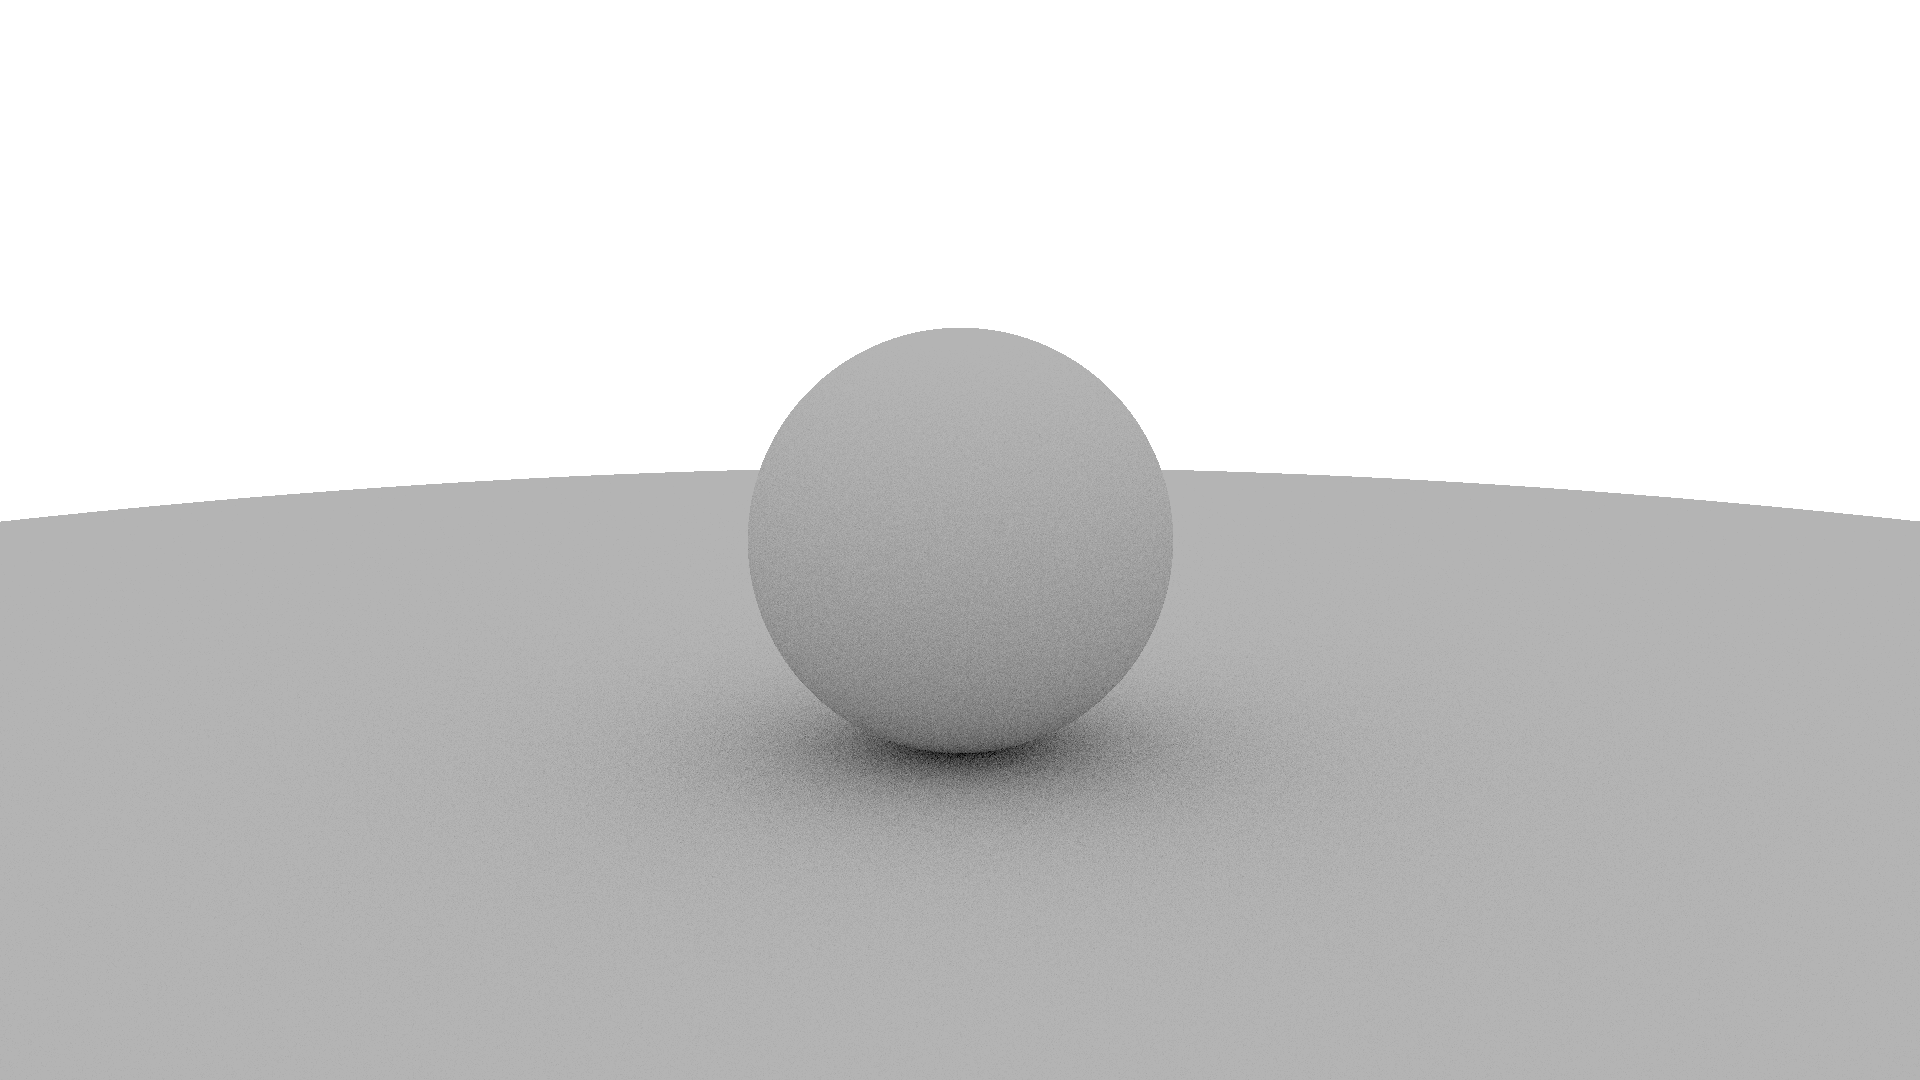
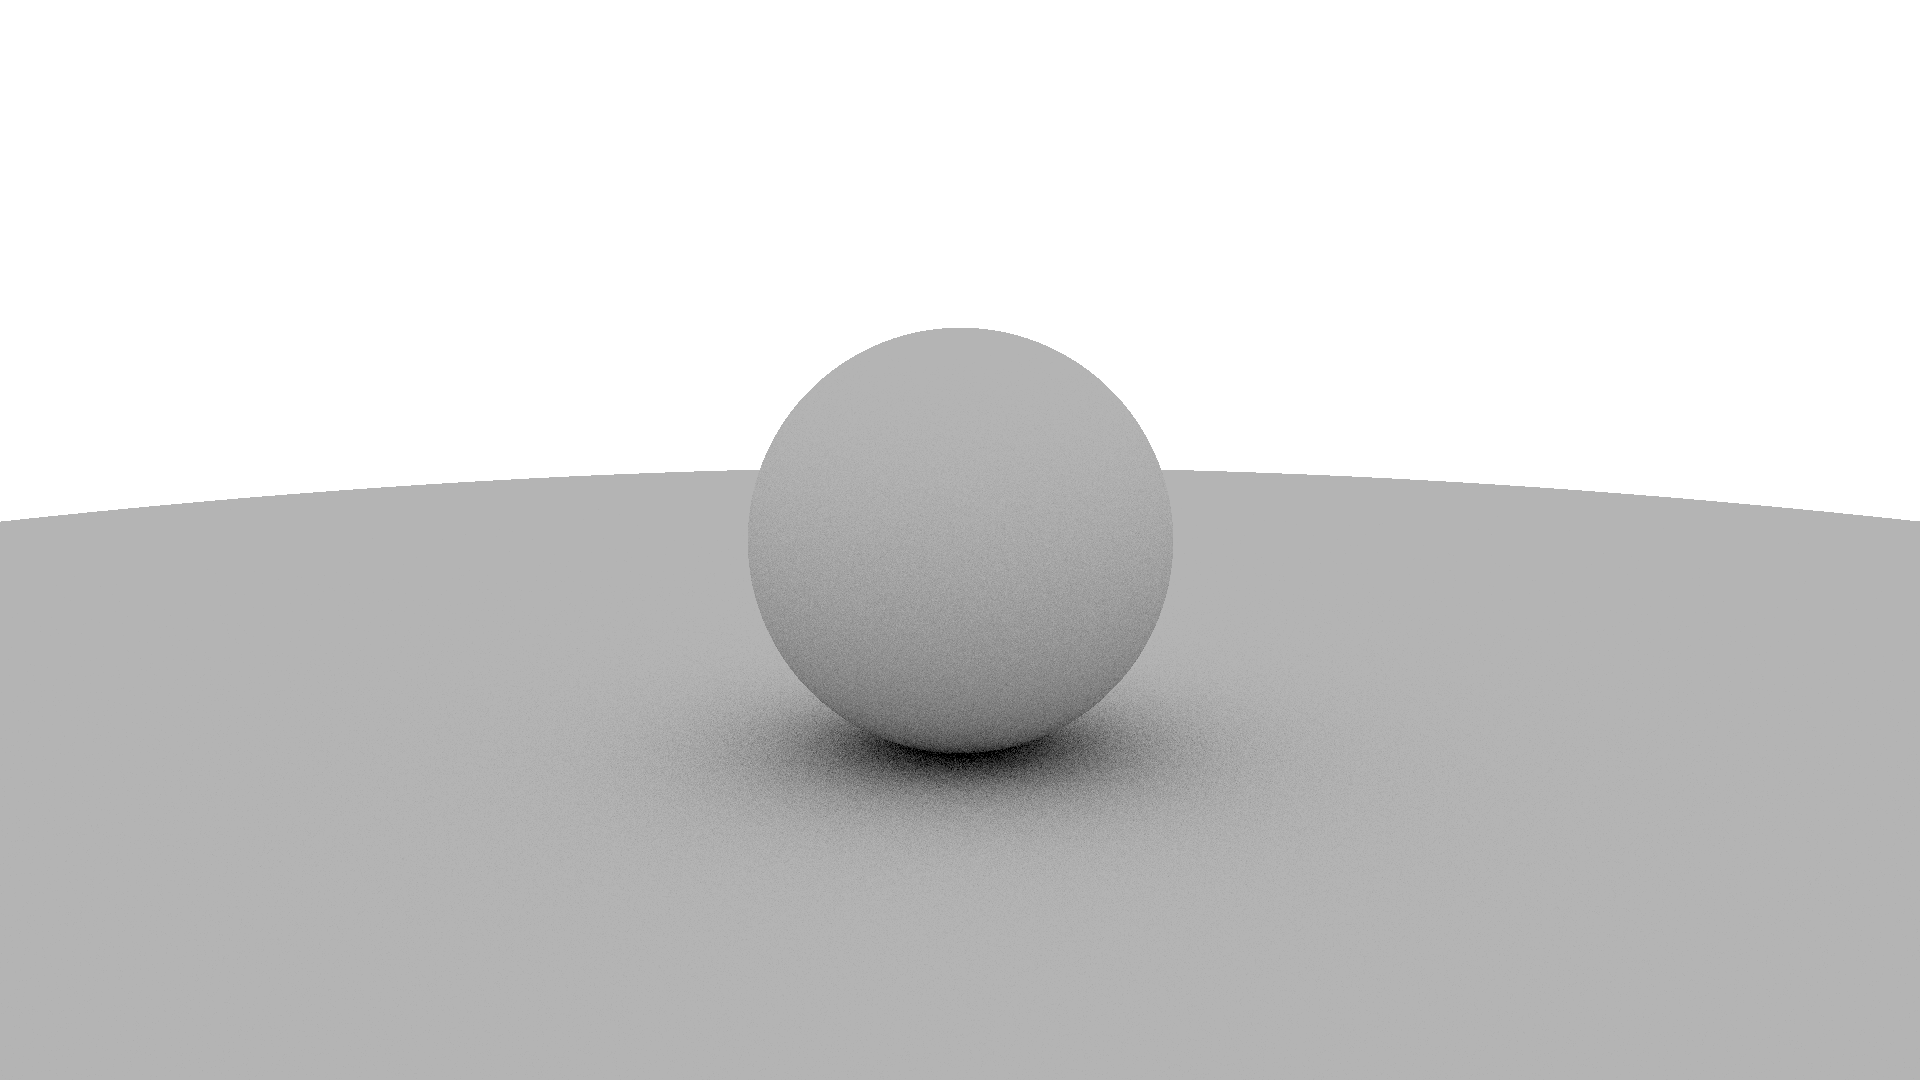
refactor: move methods to algorythms

Changed region(s): [[0.4062, 0.6417, 0.5938, 0.7333]]

diff --git a/src/main.rs b/src/main.rs
@@ -8,7 +8,7 @@ pub mod traits;
 use algorythms::sphere_intersection;
 use camera::perspective::PerspectiveCameraBuilder;
 use math::{Point3, Vector3};
-use renderer::HitRecord;
+use renderer::SurfaceInteraction;
 use sampler::{normal::NormalSampler, simple_diffuse::SimpleDiffuseSampler};
 use traits::{Hittable, Sampler};
 
@@ -34,7 +34,7 @@ fn main() {
         .expect("Failed to build camera");
 
     let hittables: Box<dyn Hittable> = hittables;
-    // let sampler: Box<dyn Sampler<_>> = Box::new(NormalSampler {});
+    let _normal_sampler: Box<dyn Sampler<_>> = Box::new(NormalSampler {});
     let sampler: Box<dyn Sampler<_>> = Box::new(SimpleDiffuseSampler::default());
 
     renderer::simple_renderer::render(&camera.ray_caster(), &hittables, &sampler, 1920, 1080)
@@ -69,14 +69,14 @@ pub struct Sphere {
 }
 
 impl Hittable for Sphere {
-    fn hit(&self, ray: &Ray, t_min: f64, t_max: f64) -> Option<HitRecord> {
+    fn hit(&self, ray: &Ray, t_min: f64, t_max: f64) -> Option<SurfaceInteraction> {
         let t = sphere_intersection(&ray.origin, &ray.direction, &self.center, self.radius);
 
         match t {
             Some((t0, _)) if t0 > t_min && t0 < t_max => {
                 let point = ray.at(t0);
                 let normal = (point - self.center) / self.radius;
-                Some(HitRecord::new(point, ray.direction, normal, t0))
+                Some(SurfaceInteraction::new(point, ray.direction, normal, t0))
             }
             _ => None,
         }
@@ -87,7 +87,7 @@ impl<T> Hittable for Vec<T>
 where
     T: Hittable,
 {
-    fn hit(&self, ray: &Ray, t_min: f64, t_max: f64) -> Option<HitRecord> {
+    fn hit(&self, ray: &Ray, t_min: f64, t_max: f64) -> Option<SurfaceInteraction> {
         self.iter()
             .filter_map(|h| h.hit(ray, t_min, t_max))
             .min_by(|a, b| a.t().partial_cmp(&b.t()).unwrap())

diff --git a/src/sampler/simple_diffuse.rs b/src/sampler/simple_diffuse.rs
@@ -1,11 +1,9 @@
 use image::Rgba;
-use rand::Rng;
 use std::ops::Mul;
 
 use crate::{
-    math::Vector3,
     traits::{Hittable, Sampler},
-    Ray,
+    Ray, algorythms::random_in_unit_sphere,
 };
 
 pub struct SimpleDiffuseSampler {
@@ -66,21 +64,5 @@ impl Sampler<Rgba<u8>> for SimpleDiffuseSampler {
             .mul(255.0) as u8;
 
         Rgba([x, x, x, 0xFF])
-    }
-}
-
-fn random_in_unit_sphere() -> Vector3 {
-    let mut rng = rand::thread_rng();
-
-    loop {
-        let p = Vector3::new(
-            rng.gen_range(-1.0..1.0),
-            rng.gen_range(-1.0..1.0),
-            rng.gen_range(-1.0..1.0),
-        );
-
-        if p.magnitude_squared() < 1.0 {
-            return p.normalize();
-        }
     }
 }

diff --git a/src/algorythms.rs b/src/algorythms.rs
@@ -1,4 +1,5 @@
 use crate::math::{Point3, Vector3};
+use rand::Rng;
 
 pub fn moller_trumbore_intersection(
     origin: &Point3,
@@ -66,4 +67,24 @@ pub fn sphere_intersection(
     } else {
         None
     }
+}
+
+pub fn random_in_unit_sphere() -> Vector3 {
+    let mut rng = rand::thread_rng();
+
+    loop {
+        let p = Vector3::new(
+            rng.gen_range(-1.0..1.0),
+            rng.gen_range(-1.0..1.0),
+            rng.gen_range(-1.0..1.0),
+        );
+
+        if p.magnitude_squared() < 1.0 {
+            return p;
+        }
+    }
+}
+
+pub fn random_unit_vector() -> Vector3 {
+    random_in_unit_sphere().normalize()
 }

diff --git a/src/traits.rs b/src/traits.rs
@@ -1,11 +1,11 @@
-use crate::{renderer::HitRecord, Ray};
+use crate::{renderer::SurfaceInteraction, Ray};
 
 pub trait RayCaster {
     fn cast(&self, u: f64, v: f64) -> Ray;
 }
 
 pub trait Hittable {
-    fn hit(&self, ray: &Ray, t_min: f64, t_max: f64) -> Option<HitRecord>;
+    fn hit(&self, ray: &Ray, t_min: f64, t_max: f64) -> Option<SurfaceInteraction>;
 }
 
 pub trait Sampler<T> {

diff --git a/src/renderer/mod.rs b/src/renderer/mod.rs
@@ -3,7 +3,7 @@ use crate::math::{Point3, Vector3};
 pub mod simple_renderer;
 
 #[derive(Debug)]
-pub struct HitRecord {
+pub struct SurfaceInteraction {
     point: Point3,
     direction: Vector3,
     normal: Vector3,
@@ -17,7 +17,7 @@ pub enum Face {
     Back,
 }
 
-impl HitRecord {
+impl SurfaceInteraction {
     pub fn new(
         point: Point3,
         direction: Vector3,
